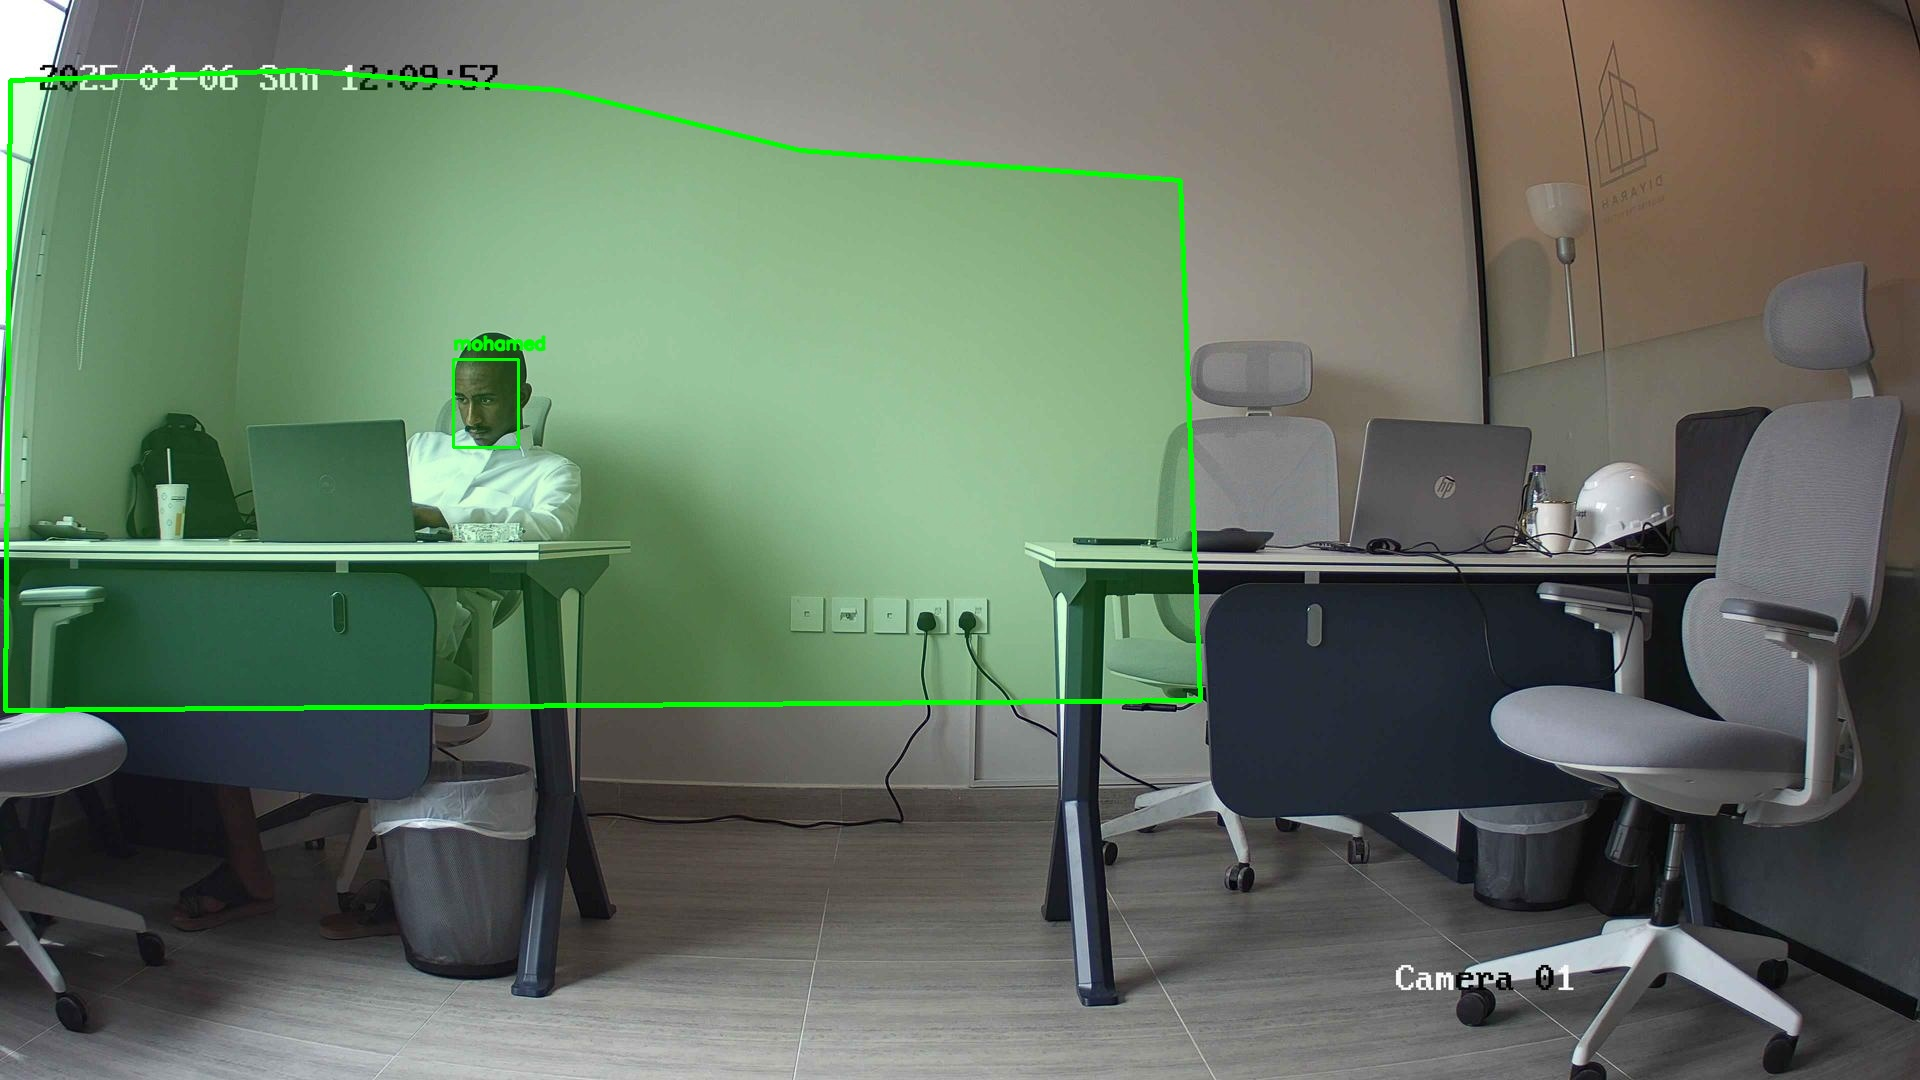
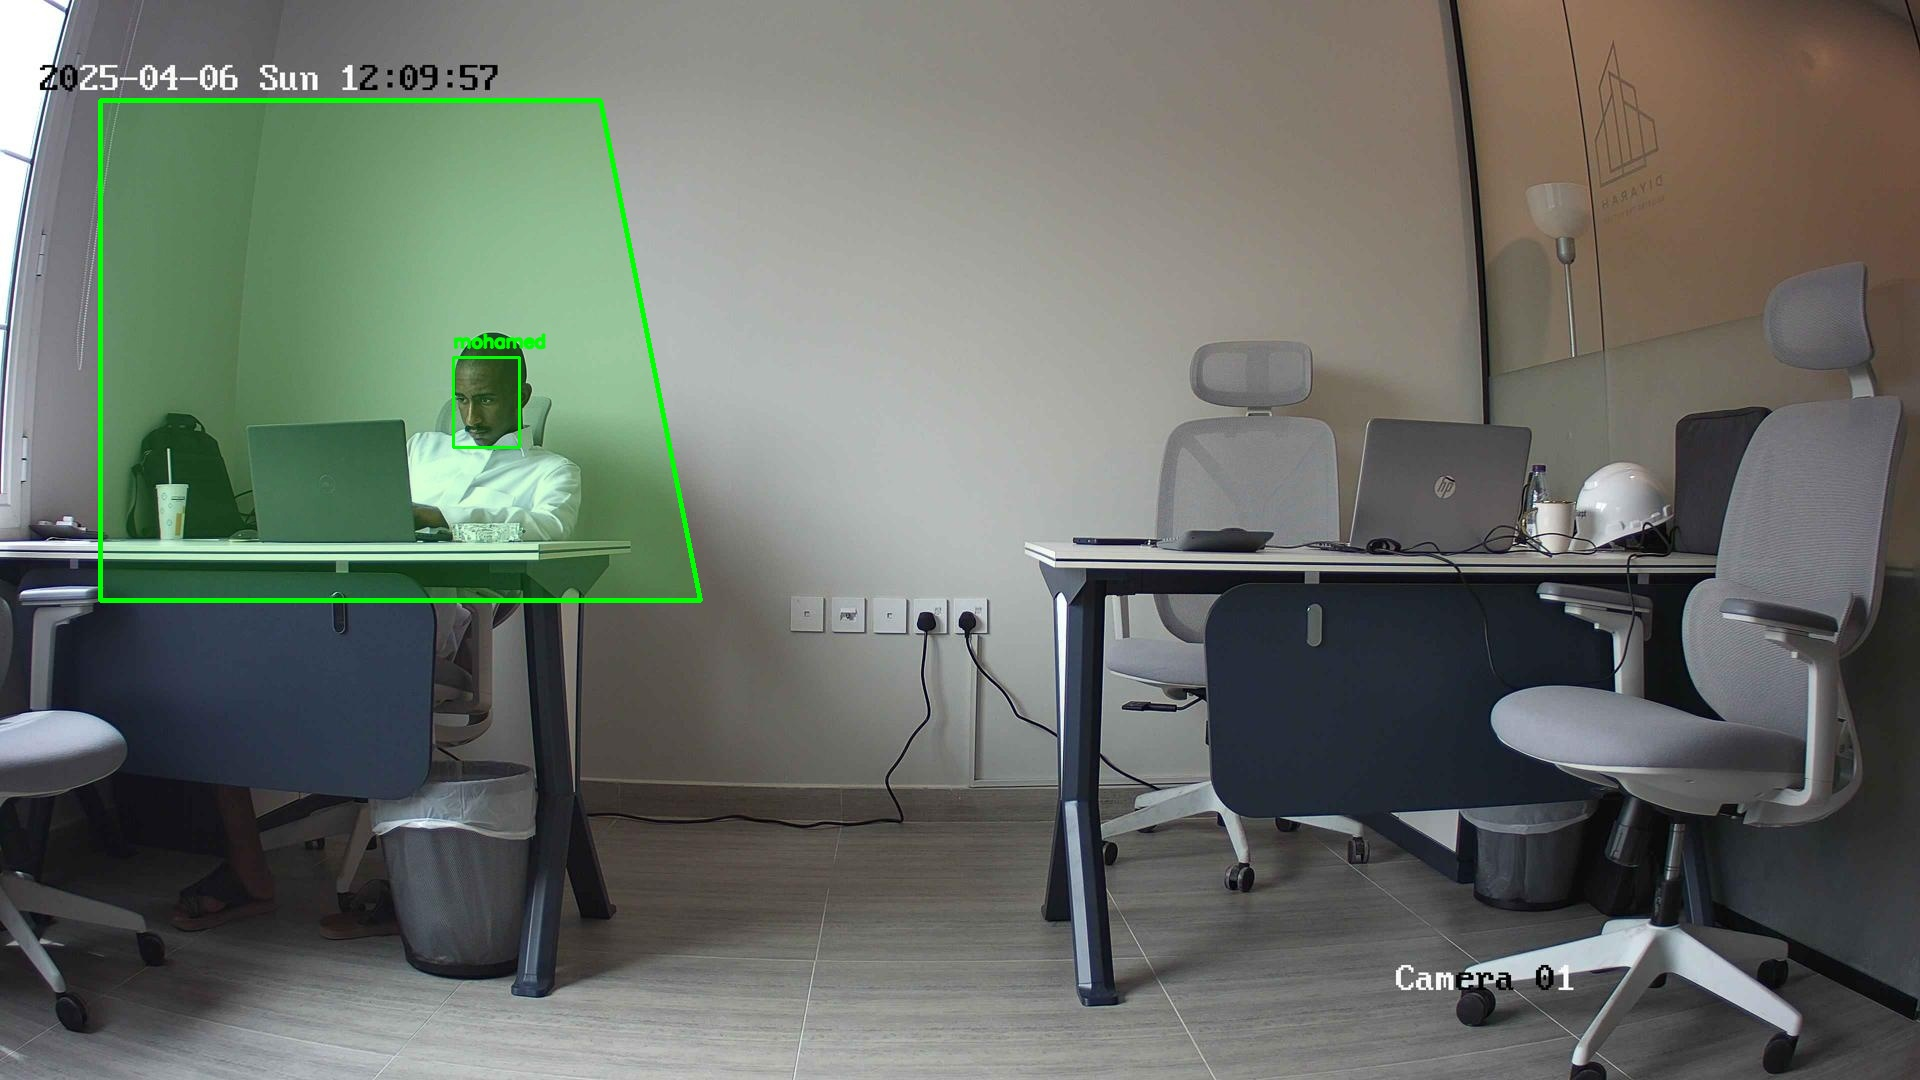
b

Changed region(s): [[0.0, 0.0611, 0.625, 0.6722], [0.2188, 0.3056, 0.2812, 0.3361]]

diff --git a/frame.py b/frame.py
@@ -1,0 +1,186 @@
+import time
+import cv2
+import numpy as np
+import io
+import base64
+from PIL import Image
+from insightface.app import FaceAnalysis
+from sklearn.metrics.pairwise import cosine_similarity
+import pickle
+from ultralytics import YOLO
+import torch
+from safe2 import *
+from match import *
+from datetime import date
+from pymongo import MongoClient
+
+from time_table import calc_time
+
+
+client = MongoClient("mongodb+srv://bahey6224:skarpt@atlascluster.x07b3pp.mongodb.net/?retryWrites=true&w=majority&appName=AtlasCluster")
+# Send a ping to confirm a successful connection
+
+try:
+    client.admin.command('ping')
+    print("Pinged your deployment. You successfully connected to MongoDB!")
+        # Step 2: Select your database
+    db = client["test_db"]
+
+    # Step 3: Select your collection (like a table)
+    collection = db["test_collection"]
+    calc_collection = db["calc_collection"]
+except Exception as e:
+    print(e)
+    
+def is_in_polygon(point, polygon):
+    px, py = int(point[0]), int(point[1])
+    return cv2.pointPolygonTest(polygon, (px, py), False) >= 0
+# === Define your workstation polygon here ===
+workstation_zone = np.array([
+    [100, 100],   # Top-left
+    [600, 100],  # Top-right
+    [700, 600],  # Bottom-right
+    [100, 600]    # Bottom-left
+], dtype=np.int32)
+
+    
+# Load known faces
+try:
+    with open("known_faces.pkl", "rb") as f:
+        known_faces = pickle.load(f)
+except FileNotFoundError:
+    known_faces = {}
+    
+    
+    
+
+app_insight = FaceAnalysis(name="buffalo_l", providers=['CPUExecutionProvider'])
+cig = torch.hub.load('ultralytics/yolov5', 'custom', path='weights.pt', source='github')
+model = YOLO("best.pt")  # Your trained model
+# fall = YOLO('yolov8s.pt') # Fall detection model
+
+app_insight.prepare(ctx_id=-1, det_size=(640, 640))
+
+
+def recognize_face(face_embedding, threshold=0.17):
+    """Compare face embedding to known faces and return best match."""
+    best_match = "Unknown"
+    best_score = 0.0
+    for name, known_embedding in known_faces.items():
+        score = cosine_similarity([face_embedding], [known_embedding])[0][0]
+        if score > best_score and score > threshold:
+            best_match = name
+            best_score = score
+        print(f"Face match: {name} - Score: {score}")    
+    return best_match
+
+while True:
+    start=time.time()
+    image= cv2.imread("test.jpg")
+    frame = np.array(image)
+    frame = cv2.cvtColor(frame, cv2.COLOR_RGB2BGR)  # Convert to OpenCV BGR format
+    
+    
+                # === Fill green semi-transparent zone ===
+    overlay = frame.copy()
+    cv2.fillPoly(overlay, [workstation_zone], color=(0, 255, 0))
+    cv2.addWeighted(overlay, 0.15, frame, 0.85, 0, frame)
+    cv2.polylines(frame, [workstation_zone], isClosed=True, color=(0, 255, 0), thickness=3)
+
+
+    # Run face recognition
+    faces = app_insight.get(frame)
+    # frame,avg_falls = detect_fall(frame, fall)
+    # print("Falls:", avg_falls)
+
+    if faces:
+        face_data = {}  # Dictionary to store bounding boxes per unique face
+        overall_avg = {}  # Dictionary to store average bounding boxes per detected face
+
+        recognized_names = []  # Store names after renaming
+        face_boxes = []  # Store bounding boxes
+        inzone_names = []  # Store names of people in the workstation zone
+
+        for i, face in enumerate(faces, start=1):  # Add index to differentiate faces
+            embedding = face.embedding
+            name = recognize_face(embedding)
+            x1, y1, x2, y2 = face.bbox.astype(int)
+            foot = (int((x1 + x2) / 2), int(y2))
+            in_zone = is_in_polygon(foot, workstation_zone)
+            inzone_names.append(name) if in_zone else None
+            known_names = list(known_faces.keys())
+            calc_time(inzone_names, calc_collection,known_names)
+
+            # If the name is "Unknown", make it unique
+            if name == "Unknown":
+                name = f"Unknown{i}"  
+
+            bbox = face.bbox.astype(int)
+
+            # Store bounding boxes per unique face
+            face_data[name] = bbox
+            recognized_names.append(name)  # Update recognized names list
+            face_boxes.append(bbox)  # Update face boxes list
+
+        # print(f"Recognized faces: {recognized_names}")
+
+        # Compute and store average bounding box per unique face
+        for name, box in face_data.items():
+            overall_avg[name] = int(np.mean(box))  # Compute average of (x1, y1, x2, y2)
+
+        # print("Overall Averages:", overall_avg)
+
+        # Draw bounding boxes with corresponding names
+        for name, box in face_data.items():  # Use updated data
+            cv2.rectangle(frame, (box[0], box[1]), (box[2], box[3]), (0, 255, 0), 2)
+            cv2.putText(frame, name, (box[0], box[1] - 10), cv2.FONT_HERSHEY_SIMPLEX,
+                        0.6, (0, 255, 0), 2, cv2.LINE_AA)
+
+                            
+
+        processed_img_path = "processed_image.jpg"
+        # frame,avg_falls = detect_fall(frame, fall)
+    
+        cv2.imwrite(processed_img_path, frame)
+        # print("Falls:", avg_falls)
+        # fallings=map_falls_to_overall(overall_avg, avg_falls)
+        # print('Fallings:',fallings)
+
+
+        # **Step 2: Run the CIG Model**
+        results = cig(processed_img_path)
+        # results.show()  # Display results
+        # results.show()  # Display results
+        bounding_boxes = results.pandas().xyxy[0][['xmin', 'ymin', 'xmax', 'ymax', 'confidence', 'name']].to_dict(orient='records')
+        
+        cigs=[]
+        for res in bounding_boxes:
+            # get average of coordinates of each bb
+            avg_bb = (res['xmin'] + res['xmax'] + res['ymin'] + res['ymax']) / 4
+        
+            cigs.append(avg_bb)
+        # print("Cigs:", cigs)
+        
+
+        # **Step 3: Run YOLO Model**
+        avg_safety,final_image_path = process_image(processed_img_path, model)
+        # print("Safety:", avg_safety)
+        cig_mapping=map_cigs_to_person(cigs, overall_avg)
+        print("Cig Mappings:", cig_mapping)
+        mappings=map_safety_to_overall(avg_safety, overall_avg)
+        display_mappings(mappings,collection)
+        
+        
+
+        # Convert final processed image to Base64
+        with open(final_image_path, "rb") as img_file:
+            processed_image_base64 = base64.b64encode(img_file.read()).decode("utf-8")
+
+            
+            
+
+        
+    else:
+        recognized_names = ["No face detected"]
+    end=time.time()
+    print(f"Time taken: {end-start}")

diff --git a/v4.py b/v4.py
@@ -51,13 +51,10 @@ def is_in_polygon(point, polygon):
     return cv2.pointPolygonTest(polygon, (px, py), False) >= 0
 # === Define your workstation polygon here ===
 workstation_zone = np.array([
-    [5, 710],
-    [10, 80],
-    [300, 70],
-    [560, 90],
-    [800, 150],
-    [1180, 180],
-    [1200, 700],
+    [100, 100],   # Top-left
+    [600, 100],  # Top-right
+    [700, 600],  # Bottom-right
+    [100, 600]    # Bottom-left
 ], dtype=np.int32)
 
     
